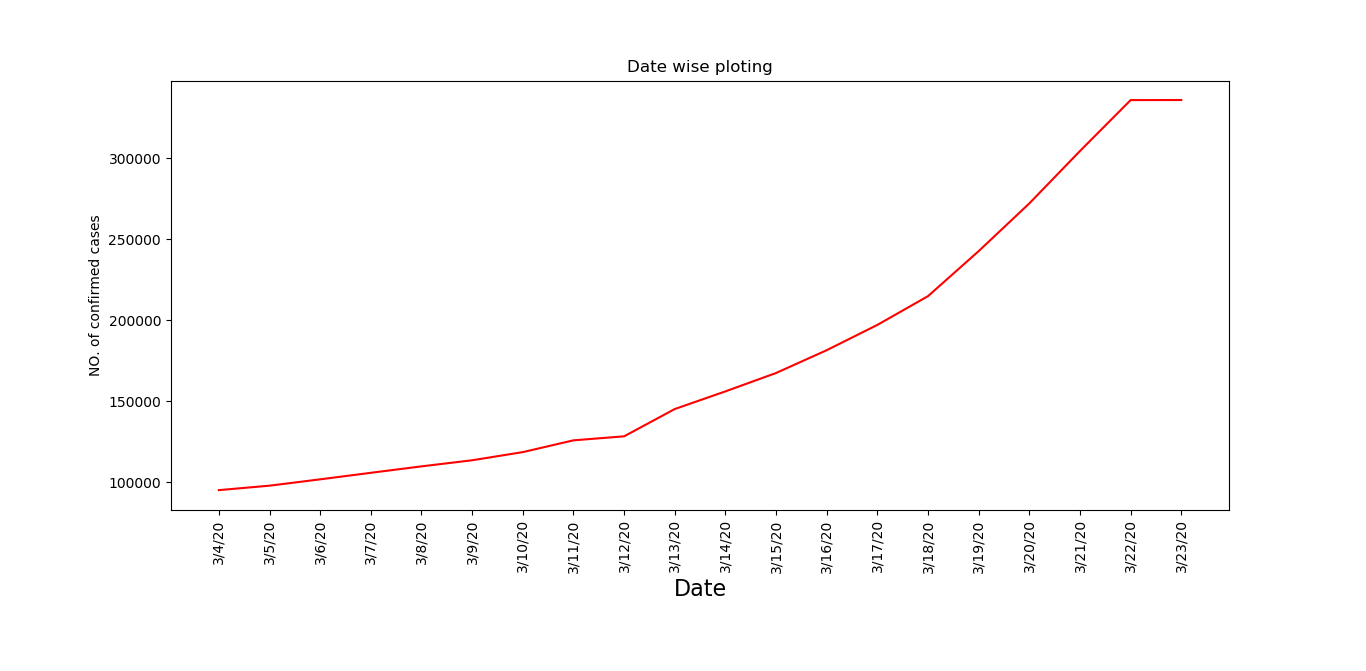
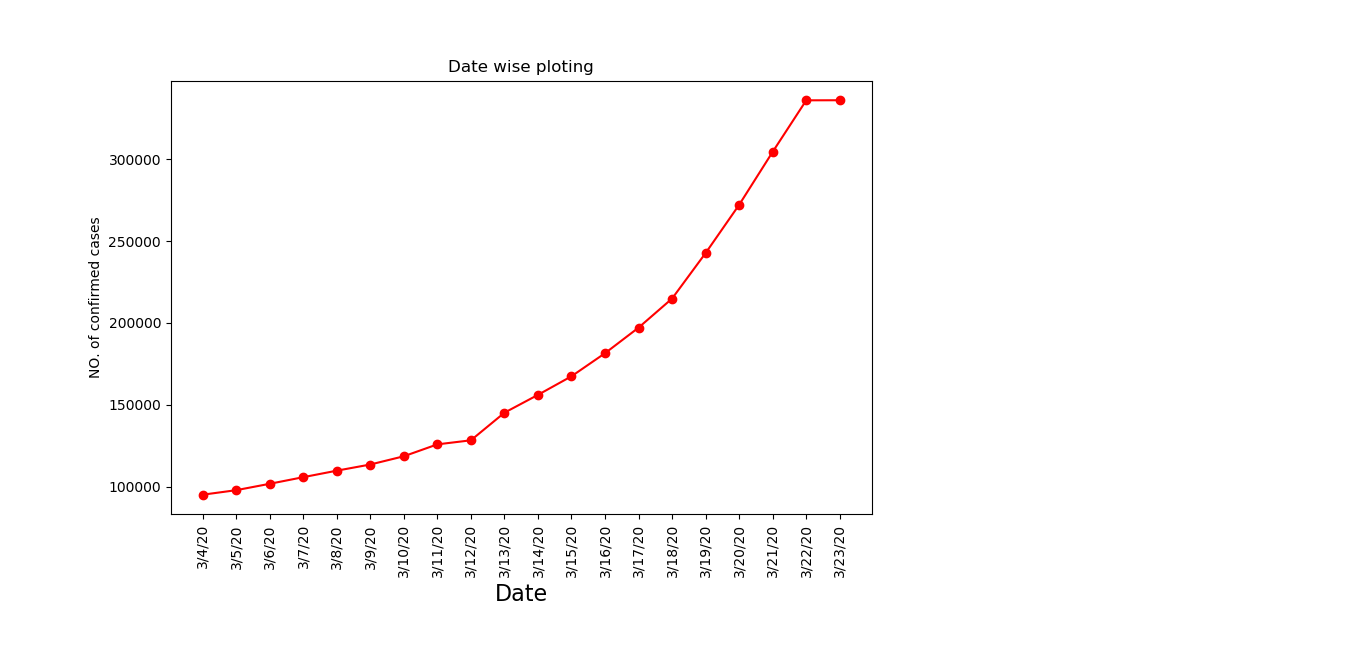
Change in plot

diff --git a/Day 1/covid19.py b/Day 1/covid19.py
@@ -31,7 +31,6 @@ plt.xticks(rotation=90)
 plt.ylabel('NO. of confirmed cases')
 plt.bar(xCountry, yCountry, color='red')
 plt.show()
-
 # Date Wise Ploting.
 
 curData.loc['total'] = curData.sum(axis=0)
@@ -45,5 +44,5 @@ plt.xlabel('Date',fontsize=16)
 plt.xticks(rotation=90)
 plt.ylabel('NO. of confirmed cases')
 
-plt.plot(xDate,yDate, color='red')
+plt.plot(xDate,yDate, '-or')
 plt.show()
